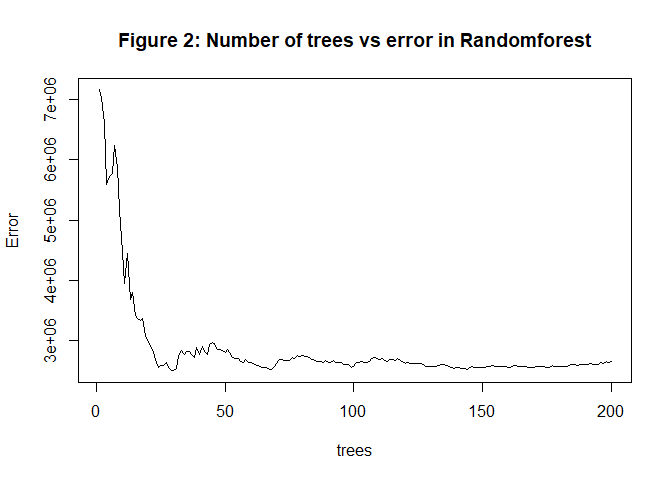
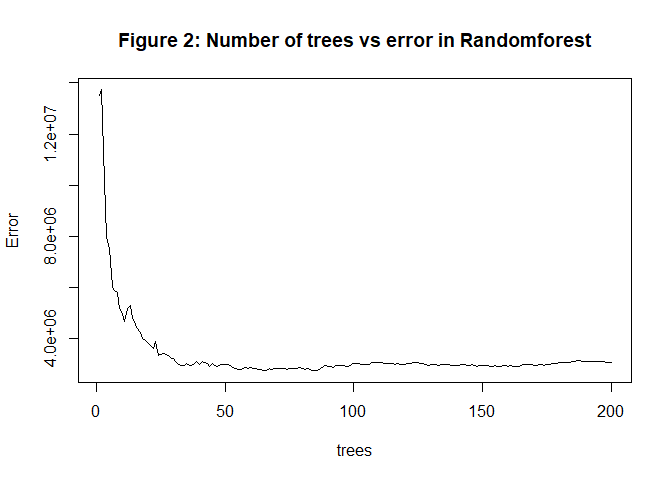
c
c

diff --git a/Final_rmd.md b/Final_rmd.md
@@ -207,7 +207,7 @@ the model estimate the change of black male prisoners which is not
 affected by the policy implementation.\`
 
 When we calculate RMSE for the backward selection model, it turned out
-to be 408.26.
+to be 408.42.
 
 ### RandomForest
 
@@ -218,7 +218,7 @@ reduce our errors.
 
 ![](Final_rmd_files/figure-markdown_strict/4.3.4-1.png)
 
-The K-fold validation result shows that the RMSE is 1627.95 which is
+The K-fold validation result shows that the RMSE is 1641.85 which is
 about 4 times larger than the RMSE of lasso regression.
 
 ### Boosting
@@ -226,7 +226,7 @@ about 4 times larger than the RMSE of lasso regression.
 Lastly, we used a boosting model with the same baseline model and did
 K-fold validation as we did above.
 
-The result of our K-fold cross validation shows that the RMSE is 889.83
+The result of our K-fold cross validation shows that the RMSE is 866.89
 which is lower than the RandomForest model but still higher than the
 lasso regression. \[Table 3\] shows that the lasso regression has the
 best predictive power among all the models that we tested.
@@ -238,7 +238,7 @@ best predictive power among all the models that we tested.
     ## +-----------+--------+--------------+----------+
     ## | **Model** | Lasso  | Randomforest | Boosting |
     ## +-----------+--------+--------------+----------+
-    ## | **RMSE**  | 408.26 |   1627.95    |  889.83  |
+    ## | **RMSE**  | 408.42 |   1641.85    |  866.89  |
     ## +-----------+--------+--------------+----------+
 
 ### Comparing the best model’s predictions with the observed data
